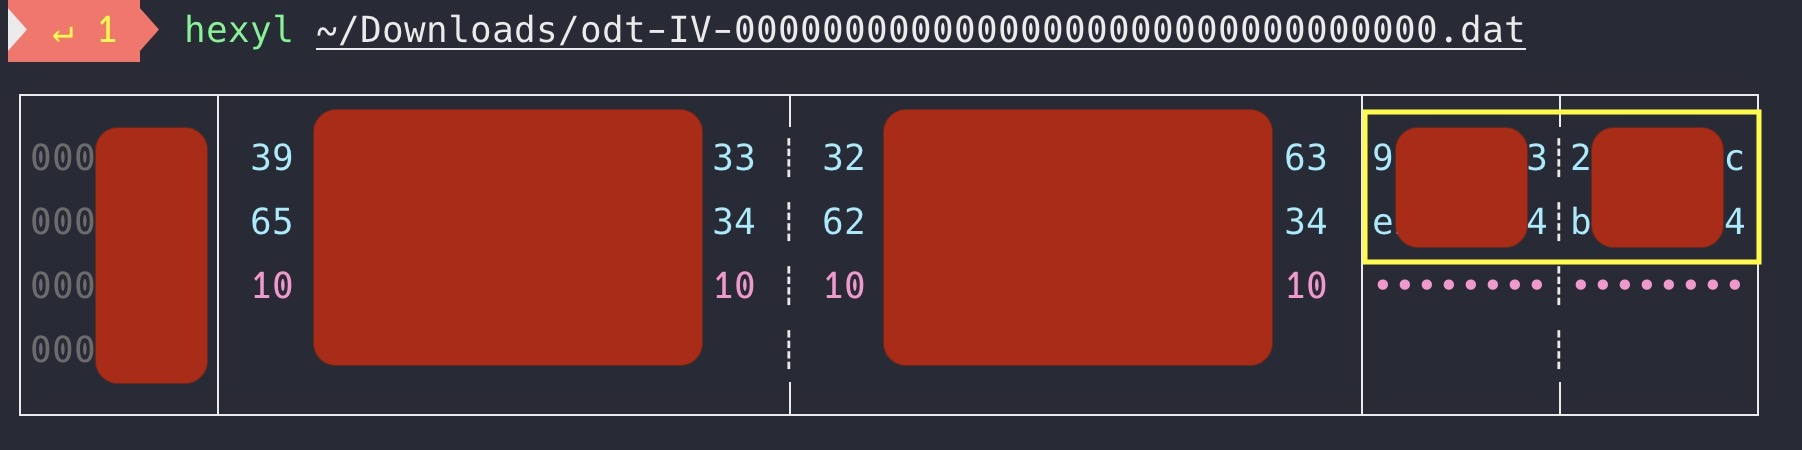
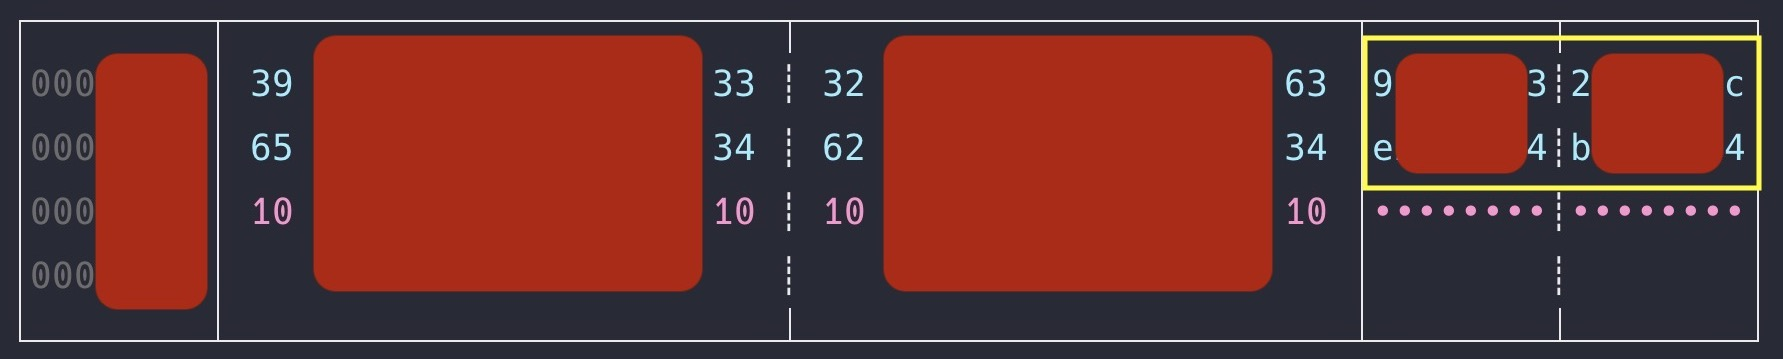
minor updates: 1. adjust some words in docs/ios-token-without-reset.md 2. adjust cropping of hexyl-output screenshot 3. add reference of ios-token-without-reset.md to management.md

diff --git a/docs/management.md b/docs/management.md
@@ -97,6 +97,10 @@ reset and the follow the section _Configuring a new device_ found above.
 6. Reconnect to your regular wireless network.
 7. Readd the device in the Mi Home app so that it has access to your regular wireless network.
 
+### Getting the token by extracting MiHome database
+
+Please refer to [ios-token-without-reset.md](ios-token-without-reset.md)
+
 ## Setting the token of a device
 
 If you want to update the token of a device use the `tokens update` command:

diff --git a/docs/ios-token-without-reset.md b/docs/ios-token-without-reset.md
@@ -12,7 +12,7 @@ If you have devices already setup, their tokens could be hidden by default. In t
 npm i ibackuptool --save
 ```
 
-2. Find the specific backup
+2. Find the specific backup, we just need the udid
 
 ```bash
 ibackuptool -l
@@ -89,4 +89,4 @@ the output would be like this
 
 ![hexyl output](images/hexyl-output.jpg)
 
-the token is the part enclosed in the yellow circle
+the token (32 characters) is the part enclosed in the yellow circle
